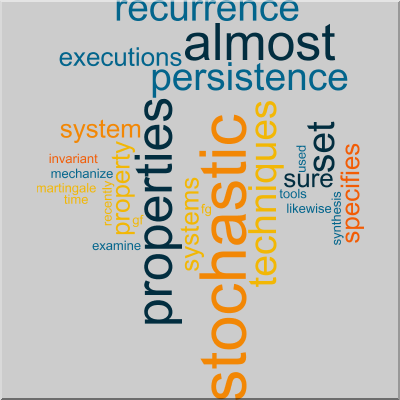
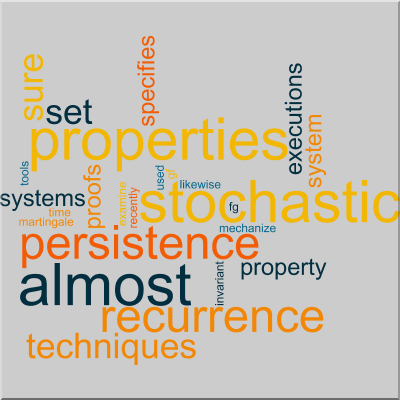
Titles for HSCC'16 and TACAS'16 papers

Changed region(s): [[0.0, 0.0, 1.0, 1.0]]

diff --git a/index.html b/index.html
@@ -51,7 +51,7 @@
                <h4 xmlns="">PhD</h4>
                <div xmlns=""><img class="small-face" src="pics/chakarov.jpg">Aleksandar Chakarov
                </div>
-               <div xmlns=""><a href="http://kyleheadley.github.io/"><img class="small-face" src="pics/headley.jpg"></a><a href="http://kyleheadley.github.io/">Kyle Headley</a></div>
+               <div xmlns=""><a href="http://www.cs.colorado.edu/kyle.headley/"><img class="small-face" src="pics/headley.jpg"></a><a href="http://www.cs.colorado.edu/kyle.headley/">Kyle Headley</a></div>
                <div xmlns=""><img class="small-face" src="pics/ykim.png">Youngsung Kim
                </div>
                <div xmlns=""><a href="http://tianhanlu.com"><img class="small-face" src="pics/tianhan.jpg"></a><a href="http://tianhanlu.com">Tianhan Lu</a></div>
@@ -184,7 +184,7 @@
                      </div>
                      	CUPLV authors Aditya Zutshi, <a href="http://www.cs.colorado.edu/~srirams/">Sriram Sankaranarayanan</a>, and 
                      	with collaborators 
-                     	have had a paper "<a href="papers/symbolic-numeric-reach-hscc16.html"></a>"
+                     	have had a paper "<a href="papers/symbolic-numeric-reach-hscc16.html">Symbolic-Numeric Reachability Analysis of Closed-Loop Control Software</a>"
                      	accepted for presentation at <a href="http://www.cs.ox.ac.uk/conferences/hscc2016/">HSCC 2016</a> in April.
                      
                   </div>
@@ -245,7 +245,7 @@
                      <div class="float-right"><img class="medium-face" src="pics/blackshear.jpg"> <img class="medium-face" src="pics/chang.jpg"> <img class="medium-face" src="pics/hammer.png"> <img class="medium-face" src="pics/headley.jpg"> 
                      </div>
                      	CUPLV authors <a href="http://cs.colorado.edu/~sabl4745">Sam Blackshear</a>, <a href="http://www.cs.colorado.edu/~bec/">Bor-Yuh Evan Chang</a>,
-                     	<a href="http://www.cs.umd.edu/~hammer/">Matthew A. Hammer</a>, and <a href="http://kyleheadley.github.io/">Kyle Headley</a>
+                     	<a href="http://www.cs.umd.edu/~hammer/">Matthew A. Hammer</a>, and <a href="http://www.cs.colorado.edu/kyle.headley/">Kyle Headley</a>
                      	have had papers accepted for presentation at <a href="http://2015.splashcon.org/">OOPSLA 2015</a> in October (<a href="papers/controlfeasibility-oopsla15.html">Blackshear  et al.</a> and <a href="papers/adaptonwithnames-oopsla15.html">Hammer  et al.</a>).
                      
                   </div>
@@ -253,7 +253,7 @@
                      
                      <div class="float-right"><img class="medium-face" src="pics/headley.jpg"> 
                      </div>
-                     	<a href="http://kyleheadley.github.io/">Kyle Headley</a>
+                     	<a href="http://www.cs.colorado.edu/kyle.headley/">Kyle Headley</a>
                      comes in second at <a href="http://icfpconference.org/icfp2015/src.html">ICFP-SRC 2015</a>
                      	in the undergraduate category.
                      
@@ -364,7 +364,7 @@
                </div>
                <div class="news-item" id="icfp-src-2015">2015.09.01:
                   
-                  	<a href="http://kyleheadley.github.io/">Kyle Headley</a>
+                  	<a href="http://www.cs.colorado.edu/kyle.headley/">Kyle Headley</a>
                   comes in second at <a href="http://icfpconference.org/icfp2015/src.html">ICFP-SRC 2015</a>
                   	in the undergraduate category.
                   
@@ -468,7 +468,7 @@
                      <li><a href="papers/symbolic-numeric-reach-hscc16.html">detail</a></li>
                      <li><a href="papers/symbolic-numeric-reach-hscc16.pdf" onClick="_gaq.push(['_trackPageview', '/papers/symbolic-numeric-reach-hscc16.pdf']);">pdf</a></li>
                   </ul>
-                  <div class="item-header hanging"></div>
+                  <div class="item-header hanging">Symbolic-Numeric Reachability Analysis of Closed-Loop Control Software</div>
                   <div class="hanging">Aditya Zutshi, <a href="http://www.cs.colorado.edu/~srirams/">Sriram Sankaranarayanan</a>, <a href="http://www.cs.utexas.edu/~deshmukh/">Jyotirmoy V. Deshmukh</a>,  and Xiaoqing Jin
                   </div>
                   <div class="hanging">
@@ -487,7 +487,7 @@
                      <li><a href="papers/affine-forms-conc-measure-tacas16.html">detail</a></li>
                      <li><a href="papers/affine-forms-conc-measure-tacas16.pdf" onClick="_gaq.push(['_trackPageview', '/papers/affine-forms-conc-measure-tacas16.pdf']);">pdf</a></li>
                   </ul>
-                  <div class="item-header hanging"></div>
+                  <div class="item-header hanging">Uncertainty Propagation using Probabilistic Affine Forms and Concentration of Measure Inequalities</div>
                   <div class="hanging">Olivier Bouissou, <a href="http://www.lix.polytechnique.fr/~goubault/">Eric Goubault</a>, <a href="http://www.lix.polytechnique.fr/Labo/Sylvie.Putot/">Sylvie Putot</a>, Aleksandar Chakarov,  and <a href="http://www.cs.colorado.edu/~srirams/">Sriram Sankaranarayanan</a></div>
                   <div class="hanging">
                      	<a href="http://www.etaps.org/2016/tacas/">TACAS 2016</a>:
@@ -504,7 +504,7 @@
                      <li><a href="papers/stochastic-persistence-tacas16.html">detail</a></li>
                      <li><a href="papers/stochastic-persistence-tacas16.pdf" onClick="_gaq.push(['_trackPageview', '/papers/stochastic-persistence-tacas16.pdf']);">pdf</a></li>
                   </ul>
-                  <div class="item-header hanging"></div>
+                  <div class="item-header hanging">Deductive Proofs of Almost Sure Persistence and Recurrence Properties</div>
                   <div class="hanging">Aleksandar Chakarov, <a href="http://www.cs.colorado.edu/~yuvo9296/">Yuen-Lam Voronin</a>,  and <a href="http://www.cs.colorado.edu/~srirams/">Sriram Sankaranarayanan</a></div>
                   <div class="hanging">
                      	<a href="http://www.etaps.org/2016/tacas/">TACAS 2016</a>:
@@ -556,7 +556,7 @@
                      <li><a href="papers/adaptonwithnames-oopsla15.html">detail</a></li>
                   </ul>
                   <div class="item-header hanging">Incremental Computation with Names</div>
-                  <div class="hanging"><a href="http://www.cs.umd.edu/~hammer/">Matthew A. Hammer</a>, <a href="http://www.cs.ubc.ca/~joshdunf/">Joshua Dunfield</a>, <a href="http://kyleheadley.github.io/">Kyle Headley</a>, Nicholas Labich, <a href="http://www.cs.umd.edu/~jfoster/">Jeffrey S. Foster</a>, <a href="http://www.cs.umd.edu/~mwh/">Michael Hicks</a>,  and <a href="https://www.cs.umd.edu/~dvanhorn/">David Van Horn</a></div>
+                  <div class="hanging"><a href="http://www.cs.umd.edu/~hammer/">Matthew A. Hammer</a>, <a href="http://www.cs.ubc.ca/~joshdunf/">Joshua Dunfield</a>, <a href="http://www.cs.colorado.edu/kyle.headley/">Kyle Headley</a>, Nicholas Labich, <a href="http://www.cs.umd.edu/~jfoster/">Jeffrey S. Foster</a>, <a href="http://www.cs.umd.edu/~mwh/">Michael Hicks</a>,  and <a href="https://www.cs.umd.edu/~dvanhorn/">David Van Horn</a></div>
                   <div class="hanging">
                      	<a href="http://2015.splashcon.org/">OOPSLA 2015</a>:
                      ACM SIGPLAN Conference on Object Oriented Programming Systems Languages and Applications

diff --git a/papers.html b/papers.html
@@ -64,7 +64,7 @@
                      <li><a href="papers/symbolic-numeric-reach-hscc16.html">detail</a></li>
                      <li><a href="papers/symbolic-numeric-reach-hscc16.pdf" onClick="_gaq.push(['_trackPageview', '/papers/symbolic-numeric-reach-hscc16.pdf']);">pdf</a></li>
                   </ul>
-                  <div class="item-header hanging"></div>
+                  <div class="item-header hanging">Symbolic-Numeric Reachability Analysis of Closed-Loop Control Software</div>
                   <div class="hanging">Aditya Zutshi, <a href="http://www.cs.colorado.edu/~srirams/">Sriram Sankaranarayanan</a>, <a href="http://www.cs.utexas.edu/~deshmukh/">Jyotirmoy V. Deshmukh</a>,  and Xiaoqing Jin
                   </div>
                   <div class="hanging">
@@ -82,7 +82,7 @@
                      <li><a href="papers/affine-forms-conc-measure-tacas16.html">detail</a></li>
                      <li><a href="papers/affine-forms-conc-measure-tacas16.pdf" onClick="_gaq.push(['_trackPageview', '/papers/affine-forms-conc-measure-tacas16.pdf']);">pdf</a></li>
                   </ul>
-                  <div class="item-header hanging"></div>
+                  <div class="item-header hanging">Uncertainty Propagation using Probabilistic Affine Forms and Concentration of Measure Inequalities</div>
                   <div class="hanging">Olivier Bouissou, <a href="http://www.lix.polytechnique.fr/~goubault/">Eric Goubault</a>, <a href="http://www.lix.polytechnique.fr/Labo/Sylvie.Putot/">Sylvie Putot</a>, Aleksandar Chakarov,  and <a href="http://www.cs.colorado.edu/~srirams/">Sriram Sankaranarayanan</a></div>
                   <div class="hanging">
                      	<a href="http://www.etaps.org/2016/tacas/">TACAS 2016</a>:
@@ -99,7 +99,7 @@
                      <li><a href="papers/stochastic-persistence-tacas16.html">detail</a></li>
                      <li><a href="papers/stochastic-persistence-tacas16.pdf" onClick="_gaq.push(['_trackPageview', '/papers/stochastic-persistence-tacas16.pdf']);">pdf</a></li>
                   </ul>
-                  <div class="item-header hanging"></div>
+                  <div class="item-header hanging">Deductive Proofs of Almost Sure Persistence and Recurrence Properties</div>
                   <div class="hanging">Aleksandar Chakarov, <a href="http://www.cs.colorado.edu/~yuvo9296/">Yuen-Lam Voronin</a>,  and <a href="http://www.cs.colorado.edu/~srirams/">Sriram Sankaranarayanan</a></div>
                   <div class="hanging">
                      	<a href="http://www.etaps.org/2016/tacas/">TACAS 2016</a>:
@@ -149,7 +149,7 @@
                      <li><a href="papers/adaptonwithnames-oopsla15.html">detail</a></li>
                   </ul>
                   <div class="item-header hanging">Incremental Computation with Names</div>
-                  <div class="hanging"><a href="http://www.cs.umd.edu/~hammer/">Matthew A. Hammer</a>, <a href="http://www.cs.ubc.ca/~joshdunf/">Joshua Dunfield</a>, <a href="http://kyleheadley.github.io/">Kyle Headley</a>, Nicholas Labich, <a href="http://www.cs.umd.edu/~jfoster/">Jeffrey S. Foster</a>, <a href="http://www.cs.umd.edu/~mwh/">Michael Hicks</a>,  and <a href="https://www.cs.umd.edu/~dvanhorn/">David Van Horn</a></div>
+                  <div class="hanging"><a href="http://www.cs.umd.edu/~hammer/">Matthew A. Hammer</a>, <a href="http://www.cs.ubc.ca/~joshdunf/">Joshua Dunfield</a>, <a href="http://www.cs.colorado.edu/kyle.headley/">Kyle Headley</a>, Nicholas Labich, <a href="http://www.cs.umd.edu/~jfoster/">Jeffrey S. Foster</a>, <a href="http://www.cs.umd.edu/~mwh/">Michael Hicks</a>,  and <a href="https://www.cs.umd.edu/~dvanhorn/">David Van Horn</a></div>
                   <div class="hanging">
                      	<a href="http://2015.splashcon.org/">OOPSLA 2015</a>:
                      ACM SIGPLAN Conference on Object Oriented Programming Systems Languages and Applications

diff --git a/papers/affine-forms-conc-measure-tacas16.html b/papers/affine-forms-conc-measure-tacas16.html
@@ -10,7 +10,7 @@
       <title>
          	TACAS 2016
          :
-         	  |  CUPLV
+         	Uncertainty Propagation using Probabilistic Affine Forms and Concentration of Measure Inequalities  |  CUPLV
       </title><script xmlns="" type="text/javascript" src="lib/sh_main.min.js"></script><script xmlns="" type="text/javascript" src="lib/sh_bib.js"></script><link xmlns="" href="lib/sh_style.css" rel="stylesheet" type="text/css"><script xmlns="" type="text/javascript">
 	  (function(w) { var p = w.onload;
 	     w.onload = function() {
@@ -47,7 +47,7 @@
             </ul><img xmlns="" src="pics/banner.jpg" height="50"></div>
          <div id="content">
             <div id="header">
-               <div xmlns="" class="small-title"></div>
+               <div xmlns="" class="small-title">Uncertainty Propagation using Probabilistic Affine Forms and Concentration of Measure Inequalities</div>
                <div xmlns="" class="subtitle">
                   	<a href="http://www.etaps.org/2016/tacas/">TACAS 2016</a>
                   
@@ -62,7 +62,7 @@
                      <li><a href="papers/affine-forms-conc-measure-tacas16.html">detail</a></li>
                      <li><a href="papers/affine-forms-conc-measure-tacas16.pdf" onClick="_gaq.push(['_trackPageview', '/papers/affine-forms-conc-measure-tacas16.pdf']);">pdf</a></li>
                   </ul>
-                  <div class="item-header hanging"></div>
+                  <div class="item-header hanging">Uncertainty Propagation using Probabilistic Affine Forms and Concentration of Measure Inequalities</div>
                   <div class="hanging">Olivier Bouissou, <a href="http://www.lix.polytechnique.fr/~goubault/">Eric Goubault</a>, <a href="http://www.lix.polytechnique.fr/Labo/Sylvie.Putot/">Sylvie Putot</a>, Aleksandar Chakarov,  and <a href="http://www.cs.colorado.edu/~srirams/">Sriram Sankaranarayanan</a></div>
                   <div class="hanging">
                      	<a href="http://www.etaps.org/2016/tacas/">TACAS 2016</a>:
@@ -88,7 +88,7 @@
 @string{TACAS = "International Conference on Tools and Algorithms for the Construction and Analysis of Systems (TACAS)"}
 @inproceedings{affine-forms-conc-measure-tacas16,
   author = {Olivier Bouissou and Eric Goubault and Sylvie Putot and Aleksandar Chakarov and Sriram Sankaranarayanan},
-  title = {},
+  title = {Uncertainty Propagation using Probabilistic Affine Forms and Concentration of Measure Inequalities},
   booktitle = TACAS,
   year = {2016},
 }

diff --git a/papers/stochastic-persistence-tacas16.html b/papers/stochastic-persistence-tacas16.html
@@ -10,7 +10,7 @@
       <title>
          	TACAS 2016
          :
-         	  |  CUPLV
+         	Deductive Proofs of Almost Sure Persistence and Recurrence Properties  |  CUPLV
       </title><script xmlns="" type="text/javascript" src="lib/sh_main.min.js"></script><script xmlns="" type="text/javascript" src="lib/sh_bib.js"></script><link xmlns="" href="lib/sh_style.css" rel="stylesheet" type="text/css"><script xmlns="" type="text/javascript">
 	  (function(w) { var p = w.onload;
 	     w.onload = function() {
@@ -47,7 +47,7 @@
             </ul><img xmlns="" src="pics/banner.jpg" height="50"></div>
          <div id="content">
             <div id="header">
-               <div xmlns="" class="small-title"></div>
+               <div xmlns="" class="small-title">Deductive Proofs of Almost Sure Persistence and Recurrence Properties</div>
                <div xmlns="" class="subtitle">
                   	<a href="http://www.etaps.org/2016/tacas/">TACAS 2016</a>
                   
@@ -62,7 +62,7 @@
                      <li><a href="papers/stochastic-persistence-tacas16.html">detail</a></li>
                      <li><a href="papers/stochastic-persistence-tacas16.pdf" onClick="_gaq.push(['_trackPageview', '/papers/stochastic-persistence-tacas16.pdf']);">pdf</a></li>
                   </ul>
-                  <div class="item-header hanging"></div>
+                  <div class="item-header hanging">Deductive Proofs of Almost Sure Persistence and Recurrence Properties</div>
                   <div class="hanging">Aleksandar Chakarov, <a href="http://www.cs.colorado.edu/~yuvo9296/">Yuen-Lam Voronin</a>,  and <a href="http://www.cs.colorado.edu/~srirams/">Sriram Sankaranarayanan</a></div>
                   <div class="hanging">
                      	<a href="http://www.etaps.org/2016/tacas/">TACAS 2016</a>:
@@ -87,7 +87,7 @@
 @string{TACAS = "International Conference on Tools and Algorithms for the Construction and Analysis of Systems (TACAS)"}
 @inproceedings{stochastic-persistence-tacas16,
   author = {Aleksandar Chakarov and Yuen-Lam Voronin and Sriram Sankaranarayanan},
-  title = {},
+  title = {Deductive Proofs of Almost Sure Persistence and Recurrence Properties},
   booktitle = TACAS,
   year = {2016},
 }

diff --git a/papers/symbolic-numeric-reach-hscc16.html b/papers/symbolic-numeric-reach-hscc16.html
@@ -10,7 +10,7 @@
       <title>
          	HSCC 2016
          :
-         	  |  CUPLV
+         	Symbolic-Numeric Reachability Analysis of Closed-Loop Control Software  |  CUPLV
       </title><script xmlns="" type="text/javascript" src="lib/sh_main.min.js"></script><script xmlns="" type="text/javascript" src="lib/sh_bib.js"></script><link xmlns="" href="lib/sh_style.css" rel="stylesheet" type="text/css"><script xmlns="" type="text/javascript">
 	  (function(w) { var p = w.onload;
 	     w.onload = function() {
@@ -47,7 +47,7 @@
             </ul><img xmlns="" src="pics/banner.jpg" height="50"></div>
          <div id="content">
             <div id="header">
-               <div xmlns="" class="small-title"></div>
+               <div xmlns="" class="small-title">Symbolic-Numeric Reachability Analysis of Closed-Loop Control Software</div>
                <div xmlns="" class="subtitle">
                   	<a href="http://www.cs.ox.ac.uk/conferences/hscc2016/">HSCC 2016</a>
                   
@@ -62,7 +62,7 @@
                      <li><a href="papers/symbolic-numeric-reach-hscc16.html">detail</a></li>
                      <li><a href="papers/symbolic-numeric-reach-hscc16.pdf" onClick="_gaq.push(['_trackPageview', '/papers/symbolic-numeric-reach-hscc16.pdf']);">pdf</a></li>
                   </ul>
-                  <div class="item-header hanging"></div>
+                  <div class="item-header hanging">Symbolic-Numeric Reachability Analysis of Closed-Loop Control Software</div>
                   <div class="hanging">Aditya Zutshi, <a href="http://www.cs.colorado.edu/~srirams/">Sriram Sankaranarayanan</a>, <a href="http://www.cs.utexas.edu/~deshmukh/">Jyotirmoy V. Deshmukh</a>,  and Xiaoqing Jin
                   </div>
                   <div class="hanging">
@@ -90,7 +90,7 @@
 @string{HSCC = "International Conference on Hybrid Systems: Computation and Control (HSCC)"}
 @inproceedings{symbolic-numeric-reach-hscc16,
   author = {Aditya Zutshi and Sriram Sankaranarayanan and Jyotirmoy V. Deshmukh and Xiaoqing Jin},
-  title = {},
+  title = {Symbolic-Numeric Reachability Analysis of Closed-Loop Control Software},
   booktitle = HSCC,
   year = {2016},
 }

diff --git a/news.html b/news.html
@@ -55,7 +55,7 @@
                </div>
                	CUPLV authors Aditya Zutshi, <a href="http://www.cs.colorado.edu/~srirams/">Sriram Sankaranarayanan</a>, and 
                	with collaborators 
-               	have had a paper "<a href="papers/symbolic-numeric-reach-hscc16.html"></a>"
+               	have had a paper "<a href="papers/symbolic-numeric-reach-hscc16.html">Symbolic-Numeric Reachability Analysis of Closed-Loop Control Software</a>"
                	accepted for presentation at <a href="http://www.cs.ox.ac.uk/conferences/hscc2016/">HSCC 2016</a> in April.
                
             </p>
@@ -297,7 +297,7 @@
                <div class="float-right"><img class="medium-face" src="pics/blackshear.jpg"> <img class="medium-face" src="pics/chang.jpg"> <img class="medium-face" src="pics/hammer.png"> <img class="medium-face" src="pics/headley.jpg"> 
                </div>
                	CUPLV authors <a href="http://cs.colorado.edu/~sabl4745">Sam Blackshear</a>, <a href="http://www.cs.colorado.edu/~bec/">Bor-Yuh Evan Chang</a>,
-               	<a href="http://www.cs.umd.edu/~hammer/">Matthew A. Hammer</a>, and <a href="http://kyleheadley.github.io/">Kyle Headley</a>
+               	<a href="http://www.cs.umd.edu/~hammer/">Matthew A. Hammer</a>, and <a href="http://www.cs.colorado.edu/kyle.headley/">Kyle Headley</a>
                	have had papers accepted for presentation at <a href="http://2015.splashcon.org/">OOPSLA 2015</a> in October (<a href="papers/controlfeasibility-oopsla15.html">Blackshear  et al.</a> and <a href="papers/adaptonwithnames-oopsla15.html">Hammer  et al.</a>).
                
             </p>
@@ -306,7 +306,7 @@
             <p xmlns="">
                <div class="float-right"><img class="medium-face" src="pics/headley.jpg"> 
                </div>
-               	<a href="http://kyleheadley.github.io/">Kyle Headley</a>
+               	<a href="http://www.cs.colorado.edu/kyle.headley/">Kyle Headley</a>
                comes in second at <a href="http://icfpconference.org/icfp2015/src.html">ICFP-SRC 2015</a>
                	in the undergraduate category.
                

diff --git a/papers/adaptonwithnames-oopsla15.html b/papers/adaptonwithnames-oopsla15.html
@@ -62,7 +62,7 @@
                      <li><a href="papers/adaptonwithnames-oopsla15.html">detail</a></li>
                   </ul>
                   <div class="item-header hanging">Incremental Computation with Names</div>
-                  <div class="hanging"><a href="http://www.cs.umd.edu/~hammer/">Matthew A. Hammer</a>, <a href="http://www.cs.ubc.ca/~joshdunf/">Joshua Dunfield</a>, <a href="http://kyleheadley.github.io/">Kyle Headley</a>, Nicholas Labich, <a href="http://www.cs.umd.edu/~jfoster/">Jeffrey S. Foster</a>, <a href="http://www.cs.umd.edu/~mwh/">Michael Hicks</a>,  and <a href="https://www.cs.umd.edu/~dvanhorn/">David Van Horn</a></div>
+                  <div class="hanging"><a href="http://www.cs.umd.edu/~hammer/">Matthew A. Hammer</a>, <a href="http://www.cs.ubc.ca/~joshdunf/">Joshua Dunfield</a>, <a href="http://www.cs.colorado.edu/kyle.headley/">Kyle Headley</a>, Nicholas Labich, <a href="http://www.cs.umd.edu/~jfoster/">Jeffrey S. Foster</a>, <a href="http://www.cs.umd.edu/~mwh/">Michael Hicks</a>,  and <a href="https://www.cs.umd.edu/~dvanhorn/">David Van Horn</a></div>
                   <div class="hanging">
                      	<a href="http://2015.splashcon.org/">OOPSLA 2015</a>:
                      ACM SIGPLAN Conference on Object Oriented Programming Systems Languages and Applications

diff --git a/people.html b/people.html
@@ -86,7 +86,7 @@
                <div><img class="face" src="pics/chakarov.jpg"></div>
                <div>Aleksandar Chakarov</div>
             </div>
-            <div xmlns="" class="person"><a href="http://kyleheadley.github.io/">
+            <div xmlns="" class="person"><a href="http://www.cs.colorado.edu/kyle.headley/">
                   <div><img class="face" src="pics/headley.jpg"></div>
                   <div>Kyle Headley</div></a></div>
             <div xmlns="" class="person">
